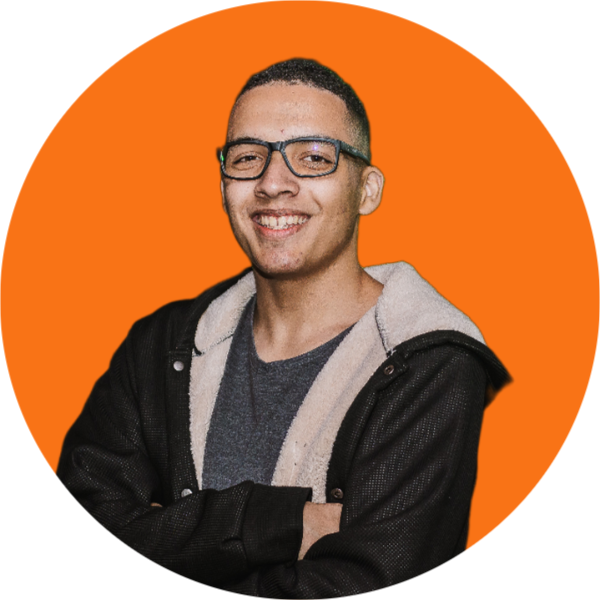
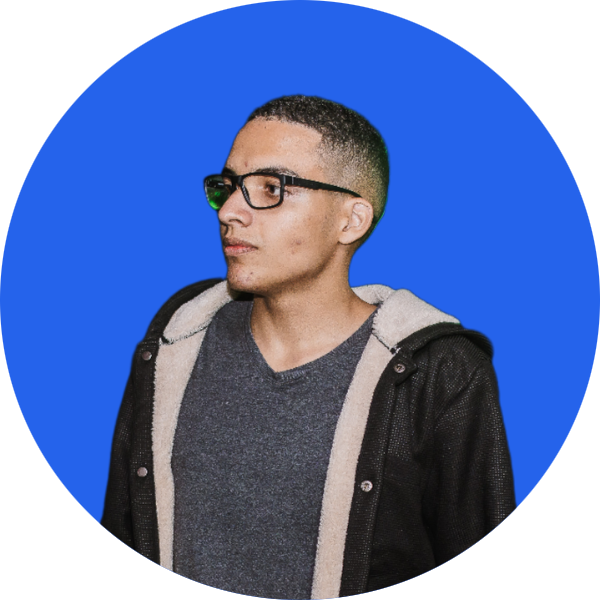
Fix: change color

diff --git a/src/app/globals.css b/src/app/globals.css
@@ -2,50 +2,51 @@
 @tailwind components;
 @tailwind utilities;
 
+
 @layer base {
   :root {
     --background: 0 0% 100%;
-    --foreground: 20 14.3% 4.1%;
+    --foreground: 222.2 84% 4.9%;
     --card: 0 0% 100%;
-    --card-foreground: 20 14.3% 4.1%;
+    --card-foreground: 222.2 84% 4.9%;
     --popover: 0 0% 100%;
-    --popover-foreground: 20 14.3% 4.1%;
-    --primary: 24.6 95% 53.1%;
-    --primary-foreground: 60 9.1% 97.8%;
-    --secondary: 60 4.8% 95.9%;
-    --secondary-foreground: 24 9.8% 10%;
-    --muted: 60 4.8% 95.9%;
-    --muted-foreground: 25 5.3% 44.7%;
-    --accent: 60 4.8% 95.9%;
-    --accent-foreground: 24 9.8% 10%;
+    --popover-foreground: 222.2 84% 4.9%;
+    --primary: 221.2 83.2% 53.3%;
+    --primary-foreground: 210 40% 98%;
+    --secondary: 210 40% 96.1%;
+    --secondary-foreground: 222.2 47.4% 11.2%;
+    --muted: 210 40% 96.1%;
+    --muted-foreground: 215.4 16.3% 46.9%;
+    --accent: 210 40% 96.1%;
+    --accent-foreground: 222.2 47.4% 11.2%;
     --destructive: 0 84.2% 60.2%;
-    --destructive-foreground: 60 9.1% 97.8%;
-    --border: 20 5.9% 90%;
-    --input: 20 5.9% 90%;
-    --ring: 24.6 95% 53.1%;
+    --destructive-foreground: 210 40% 98%;
+    --border: 214.3 31.8% 91.4%;
+    --input: 214.3 31.8% 91.4%;
+    --ring: 221.2 83.2% 53.3%;
     --radius: 0.5rem;
   }
  
   .dark {
-    --background: 20 14.3% 4.1%;
-    --foreground: 60 9.1% 97.8%;
-    --card: 20 14.3% 4.1%;
-    --card-foreground: 60 9.1% 97.8%;
-    --popover: 20 14.3% 4.1%;
-    --popover-foreground: 60 9.1% 97.8%;
-    --primary: 20.5 90.2% 48.2%;
-    --primary-foreground: 60 9.1% 97.8%;
-    --secondary: 12 6.5% 15.1%;
-    --secondary-foreground: 60 9.1% 97.8%;
-    --muted: 12 6.5% 15.1%;
-    --muted-foreground: 24 5.4% 63.9%;
-    --accent: 12 6.5% 15.1%;
-    --accent-foreground: 60 9.1% 97.8%;
-    --destructive: 0 72.2% 50.6%;
-    --destructive-foreground: 60 9.1% 97.8%;
-    --border: 12 6.5% 15.1%;
-    --input: 12 6.5% 15.1%;
-    --ring: 20.5 90.2% 48.2%;
+    --background: 222.2 84% 4.9%;
+    --foreground: 210 40% 98%;
+    --card: 222.2 84% 4.9%;
+    --card-foreground: 210 40% 98%;
+    --popover: 222.2 84% 4.9%;
+    --popover-foreground: 210 40% 98%;
+    --primary: 217.2 91.2% 59.8%;
+    --primary-foreground: 222.2 47.4% 11.2%;
+    --secondary: 217.2 32.6% 17.5%;
+    --secondary-foreground: 210 40% 98%;
+    --muted: 217.2 32.6% 17.5%;
+    --muted-foreground: 215 20.2% 65.1%;
+    --accent: 217.2 32.6% 17.5%;
+    --accent-foreground: 210 40% 98%;
+    --destructive: 0 62.8% 30.6%;
+    --destructive-foreground: 210 40% 98%;
+    --border: 217.2 32.6% 17.5%;
+    --input: 217.2 32.6% 17.5%;
+    --ring: 224.3 76.3% 48%;
   }
 }
  

diff --git a/src/components/Hello.tsx b/src/components/Hello.tsx
@@ -39,7 +39,7 @@ export const Hello = () => {
 
 const Socials = ({ children, href }: { children: ReactNode; href: string }) => {
   return (
-    <Button className="rounded-md bg-muted-foreground/30" variant={'outline'}>
+    <Button className="rounded-md bg-background" variant={'secondary'}>
       <Link href={href} rel="noopener noreferrer" target="_blank">
         {children}
       </Link>

diff --git a/src/app/layout.tsx b/src/app/layout.tsx
@@ -1,5 +1,6 @@
 import './globals.css'
 
+import { ReactNode } from 'react'
 import type { Metadata } from 'next'
 import {
   Roboto_Flex as RobotoFlex,
@@ -9,7 +10,6 @@ import {
 import { Header } from '@/components/header/Header'
 
 import { ThemeProvider } from '@/lib/theme-provider'
-import { ReactNode } from 'react'
 
 const robotoFlex = RobotoFlex({
   subsets: ['latin'],

diff --git a/src/app/sobre/page.tsx b/src/app/sobre/page.tsx
@@ -1,0 +1,5 @@
+export default function Sobre() {
+  return (
+    <section className="flex max-h-min flex-col-reverse items-center justify-between gap-8 px-[5%] py-8 sm:flex-row sm:gap-0 sm:px-[10%]"></section>
+  )
+}
